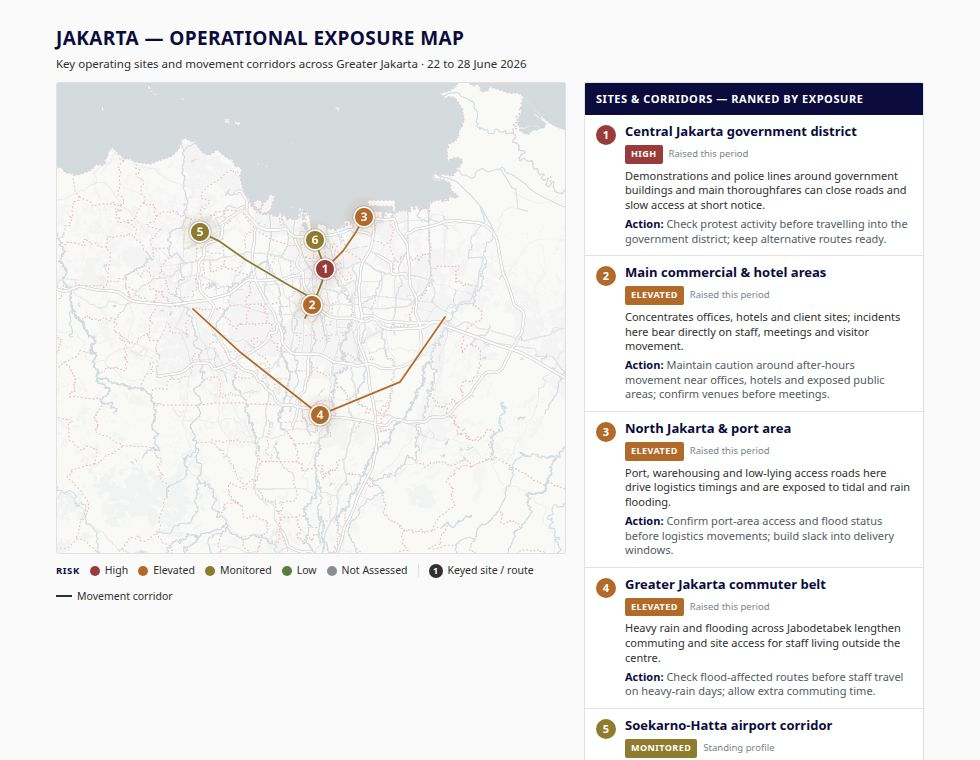
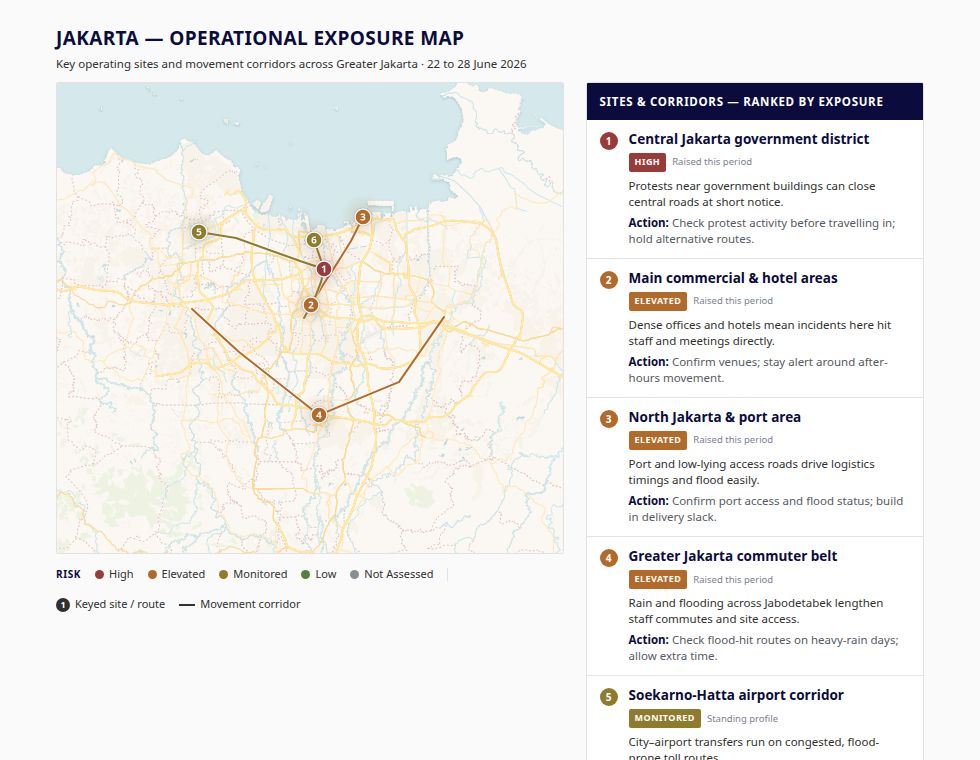
Improve map visualization and information clarity for Jakarta's exposure and corridors
Update basemap to Voyager, refine marker and corridor styling, adjust layout and text sizes in the map component, and shorten descriptions for corridor areas in the data.

Replit-Commit-Author: Agent
Replit-Commit-Session-Id: 9d7bf10a-f0b8-4c02-9145-644c21eb1a2b
Replit-Commit-Checkpoint-Type: full_checkpoint
Replit-Commit-Event-Id: 8b833ae4-ad72-441a-a140-63b469dd1d9e
Replit-Commit-Screenshot-Url: https://storage.googleapis.com/screenshot-production-us-central1/0dd4000f-972f-4f2c-8dc9-5edcdbcaee32/9d7bf10a-f0b8-4c02-9145-644c21eb1a2b/AFEWIIH
Replit-Helium-Checkpoint-Created: true

Changed region(s): [[0.5816, 0.1211, 0.949, 1.0], [0.0612, 0.2421, 0.5816, 0.8171], [0.0612, 0.6355, 0.0918, 0.6961]]

diff --git a/artifacts/workbench/src/components/JakartaCorridorMap.tsx b/artifacts/workbench/src/components/JakartaCorridorMap.tsx
@@ -203,12 +203,12 @@ export default function JakartaCorridorMap({
       mapRef.current = map;
 
       L.tileLayer(
-        "https://{s}.basemaps.cartocdn.com/light_nolabels/{z}/{x}/{y}{r}.png",
+        "https://{s}.basemaps.cartocdn.com/rastertiles/voyager_nolabels/{z}/{x}/{y}{r}.png",
         {
           subdomains: "abcd",
           maxZoom: 19,
           crossOrigin: true,
-          opacity: 0.95,
+          opacity: 1,
         },
       ).addTo(map);
 
@@ -254,20 +254,20 @@ export default function JakartaCorridorMap({
       ctx.fill();
       // Marker disc.
       ctx.beginPath();
-      ctx.arc(x, y, 10, 0, Math.PI * 2);
+      ctx.arc(x, y, 8, 0, Math.PI * 2);
       ctx.fillStyle = EXPOSURE_ACCENT[level];
       ctx.fill();
-      ctx.lineWidth = 2;
+      ctx.lineWidth = 1.5;
       ctx.strokeStyle = "#ffffff";
       ctx.stroke();
       ctx.beginPath();
-      ctx.arc(x, y, 11, 0, Math.PI * 2);
-      ctx.lineWidth = 1;
-      ctx.strokeStyle = "rgba(0,0,0,0.22)";
+      ctx.arc(x, y, 8.9, 0, Math.PI * 2);
+      ctx.lineWidth = 0.75;
+      ctx.strokeStyle = "rgba(11,11,61,0.18)";
       ctx.stroke();
       // Number.
       ctx.fillStyle = "#ffffff";
-      ctx.font = "700 12px 'Roboto Condensed', Roboto, sans-serif";
+      ctx.font = "700 10px 'Roboto Condensed', Roboto, sans-serif";
       ctx.textAlign = "center";
       ctx.textBaseline = "middle";
       ctx.fillText(String(n), x, y + 0.5);
@@ -305,8 +305,8 @@ export default function JakartaCorridorMap({
           ctx.strokeStyle = colour;
           ctx.stroke();
         };
-        stroke(3.2, "rgba(255,255,255,0.65)");
-        stroke(1.8, EXPOSURE_ACCENT[level]);
+        stroke(3.6, "rgba(255,255,255,0.7)");
+        stroke(2, EXPOSURE_ACCENT[level]);
       }
 
       // 2) Numbered markers for key sites.
@@ -384,7 +384,7 @@ export default function JakartaCorridorMap({
       </div>
 
       {/* Clean map on the left, ranked detail list on the right. */}
-      <div style={{ display: "flex", gap: 18, alignItems: "stretch" }}>
+      <div style={{ display: "flex", gap: 22, alignItems: "flex-start" }}>
         <div style={{ flex: "1.5 1 0", minWidth: 0 }}>
           <div
             id={domId}
@@ -414,14 +414,14 @@ export default function JakartaCorridorMap({
               display: "flex",
               flexWrap: "wrap",
               alignItems: "center",
-              gap: 10,
-              marginTop: 9,
+              gap: 14,
+              marginTop: 12,
             }}
           >
             <span
               style={{
                 fontFamily: "Roboto, sans-serif",
-                fontSize: 9.5,
+                fontSize: 10,
                 fontWeight: 700,
                 letterSpacing: "0.06em",
                 textTransform: "uppercase",
@@ -435,13 +435,13 @@ export default function JakartaCorridorMap({
                 <span
                   style={{
                     display: "inline-block",
-                    width: 10,
-                    height: 10,
+                    width: 9,
+                    height: 9,
                     borderRadius: "50%",
                     background: EXPOSURE_ACCENT[lvl],
                   }}
                 />
-                <span style={{ fontFamily: "Roboto, sans-serif", fontSize: 10.5, color: DUSK }}>
+                <span style={{ fontFamily: "Roboto, sans-serif", fontSize: 11, color: DUSK }}>
                   {EXPOSURE_LABEL[lvl]}
                 </span>
               </span>
@@ -465,7 +465,7 @@ export default function JakartaCorridorMap({
               >
                 1
               </span>
-              <span style={{ fontFamily: "Roboto, sans-serif", fontSize: 10.5, color: DUSK }}>
+              <span style={{ fontFamily: "Roboto, sans-serif", fontSize: 11, color: DUSK }}>
                 Keyed site / route
               </span>
             </span>
@@ -478,7 +478,7 @@ export default function JakartaCorridorMap({
                   borderTop: `2px solid ${DUSK}`,
                 }}
               />
-              <span style={{ fontFamily: "Roboto, sans-serif", fontSize: 10.5, color: DUSK }}>
+              <span style={{ fontFamily: "Roboto, sans-serif", fontSize: 11, color: DUSK }}>
                 Movement corridor
               </span>
             </span>
@@ -495,10 +495,10 @@ export default function JakartaCorridorMap({
       <div
         style={{
           fontFamily: "Roboto, sans-serif",
-          fontSize: 10.5,
+          fontSize: 11,
           color: DUSK,
-          marginTop: 12,
-          fontStyle: "italic",
+          lineHeight: 1.55,
+          marginTop: 14,
         }}
       >
         Markers and lines are coloured by operating exposure — each area's
@@ -525,7 +525,6 @@ function RankedList({
         borderRadius: 2,
         overflow: "hidden",
         background: "#ffffff",
-        height: "100%",
         boxSizing: "border-box",
       }}
     >
@@ -535,10 +534,10 @@ function RankedList({
           color: "#ffffff",
           fontFamily: "'Roboto Condensed', Roboto, sans-serif",
           fontWeight: 700,
-          fontSize: 11,
-          letterSpacing: "0.05em",
+          fontSize: 11.5,
+          letterSpacing: "0.06em",
           textTransform: "uppercase",
-          padding: "8px 11px",
+          padding: "10px 13px",
         }}
       >
         Sites & corridors — ranked by exposure
@@ -550,9 +549,9 @@ function RankedList({
             key={s.area.id}
             style={{
               display: "flex",
-              gap: 9,
+              gap: 11,
               alignItems: "flex-start",
-              padding: "9px 11px",
+              padding: "11px 13px",
               borderTop: i === 0 ? "none" : `1px solid ${POLAR}`,
             }}
           >
@@ -562,14 +561,14 @@ function RankedList({
                 display: "inline-flex",
                 alignItems: "center",
                 justifyContent: "center",
-                width: 20,
-                height: 20,
+                width: 18,
+                height: 18,
                 borderRadius: "50%",
                 background: accent,
                 color: "#ffffff",
                 fontFamily: "'Roboto Condensed', Roboto, sans-serif",
                 fontWeight: 700,
-                fontSize: 11,
+                fontSize: 10,
                 marginTop: 1,
               }}
             >
@@ -580,9 +579,9 @@ function RankedList({
                 style={{
                   fontFamily: "'Roboto Condensed', Roboto, sans-serif",
                   fontWeight: 700,
-                  fontSize: 13,
+                  fontSize: 13.5,
                   color: NAVY,
-                  lineHeight: 1.15,
+                  lineHeight: 1.2,
                 }}
               >
                 {s.area.name}
@@ -623,10 +622,10 @@ function RankedList({
               <div
                 style={{
                   fontFamily: "Roboto, sans-serif",
-                  fontSize: 11,
+                  fontSize: 11.5,
                   color: DUSK,
-                  lineHeight: 1.34,
-                  marginTop: 5,
+                  lineHeight: 1.4,
+                  marginTop: 6,
                 }}
               >
                 {s.area.relevance}
@@ -634,10 +633,10 @@ function RankedList({
               <div
                 style={{
                   fontFamily: "Roboto, sans-serif",
-                  fontSize: 11,
+                  fontSize: 11.5,
                   color: "#555a63",
-                  lineHeight: 1.34,
-                  marginTop: 4,
+                  lineHeight: 1.4,
+                  marginTop: 5,
                 }}
               >
                 <span style={{ fontWeight: 700, color: NAVY }}>Action: </span>

diff --git a/artifacts/workbench/src/lib/jakartaCorridors.ts b/artifacts/workbench/src/lib/jakartaCorridors.ts
@@ -111,9 +111,8 @@ export const JAKARTA_CORRIDOR_AREAS: JakartaCorridorArea[] = [
     exposure: "Protest and policing disruption",
     icon: "crowd",
     relevance:
-      "Demonstrations and police lines around government buildings and main thoroughfares can close roads and slow access at short notice.",
-    action:
-      "Check protest activity before travelling into the government district; keep alternative routes ready.",
+      "Protests near government buildings can close central roads at short notice.",
+    action: "Check protest activity before travelling in; hold alternative routes.",
     baselineExposure: "elevated",
     pos: { x: 48, y: 45 },
     keywords: [
@@ -130,9 +129,8 @@ export const JAKARTA_CORRIDOR_AREAS: JakartaCorridorArea[] = [
     exposure: "Office, client-meeting and visitor exposure",
     icon: "building",
     relevance:
-      "Concentrates offices, hotels and client sites; incidents here bear directly on staff, meetings and visitor movement.",
-    action:
-      "Maintain caution around after-hours movement near offices, hotels and exposed public areas; confirm venues before meetings.",
+      "Dense offices and hotels mean incidents here hit staff and meetings directly.",
+    action: "Confirm venues; stay alert around after-hours movement.",
     baselineExposure: "monitored",
     pos: { x: 51, y: 63 },
     keywords: [
@@ -150,9 +148,8 @@ export const JAKARTA_CORRIDOR_AREAS: JakartaCorridorArea[] = [
     exposure: "Airport-transfer disruption",
     icon: "plane",
     relevance:
-      "Transfers between the city and Soekarno-Hatta run through congested, flood-sensitive toll routes; disruption lengthens airport runs.",
-    action:
-      "Allow additional buffer on airport transfers; confirm the toll-route status before departure.",
+      "City\u2013airport transfers run on congested, flood-prone toll routes.",
+    action: "Allow extra buffer; confirm toll-route status before departure.",
     baselineExposure: "monitored",
     pos: { x: 13, y: 39 },
     airportPrePass: true,
@@ -168,9 +165,8 @@ export const JAKARTA_CORRIDOR_AREAS: JakartaCorridorArea[] = [
     exposure: "Logistics, flooding and access disruption",
     icon: "port",
     relevance:
-      "Port, warehousing and low-lying access roads here drive logistics timings and are exposed to tidal and rain flooding.",
-    action:
-      "Confirm port-area access and flood status before logistics movements; build slack into delivery windows.",
+      "Port and low-lying access roads drive logistics timings and flood easily.",
+    action: "Confirm port access and flood status; build in delivery slack.",
     baselineExposure: "elevated",
     pos: { x: 64, y: 16 },
     keywords: [
@@ -187,9 +183,8 @@ export const JAKARTA_CORRIDOR_AREAS: JakartaCorridorArea[] = [
     exposure: "Rain, flooding and congestion exposure",
     icon: "flood",
     relevance:
-      "Heavy rain and flooding across Jabodetabek lengthen commuting and site access for staff living outside the centre.",
-    action:
-      "Check flood-affected routes before staff travel on heavy-rain days; allow extra commuting time.",
+      "Rain and flooding across Jabodetabek lengthen staff commutes and site access.",
+    action: "Check flood-hit routes on heavy-rain days; allow extra time.",
     baselineExposure: "monitored",
     pos: { x: 30, y: 85 },
     keywords: [
@@ -205,9 +200,8 @@ export const JAKARTA_CORRIDOR_AREAS: JakartaCorridorArea[] = [
     exposure: "Meeting, site-visit and staff-movement delays",
     icon: "road",
     relevance:
-      "Congestion on the main toll roads and arterials is a daily planning constraint on meetings, deliveries and transfers.",
-    action:
-      "Build time buffers into cross-city movement; brief drivers on the day's congestion and closure points.",
+      "Congestion on the main toll roads and arterials constrains daily movement.",
+    action: "Build time buffers; brief drivers on closures.",
     baselineExposure: "monitored",
     pos: { x: 80, y: 60 },
     keywords: [

diff --git a/artifacts/workbench/src/lib/jakartaGeo.ts b/artifacts/workbench/src/lib/jakartaGeo.ts
@@ -114,26 +114,29 @@
   export const JAKARTA_CORRIDOR_LINES: JakartaCorridorLine[] = [
     {
       corridorId: "airport-corridor",
-      label: "Airport toll corridor",
+      label: "Airport corridor",
+      // Soekarno-Hatta → central Jakarta along the airport toll route.
       path: [
-        [-6.2186, 106.8138],
-        [-6.1955, 106.7720],
-        [-6.1640, 106.7180],
-        [-6.1380, 106.6820],
         [-6.1256, 106.6559],
+        [-6.1340, 106.7060],
+        [-6.1520, 106.7560],
+        [-6.1660, 106.7980],
+        [-6.1754, 106.8272],
       ],
-      labelAt: 3,
+      labelAt: 2,
     },
     {
       corridorId: "north-port",
       label: "Port access route",
+      // Tanjung Priok port → the main commercial / CBD area.
       path: [
-        [-6.1754, 106.8272],
-        [-6.1520, 106.8520],
-        [-6.1250, 106.8700],
         [-6.1048, 106.8806],
+        [-6.1380, 106.8640],
+        [-6.1700, 106.8440],
+        [-6.1980, 106.8250],
+        [-6.2249, 106.8095],
       ],
-      labelAt: 1,
+      labelAt: 2,
     },
     {
       corridorId: "cross-city-routes",
